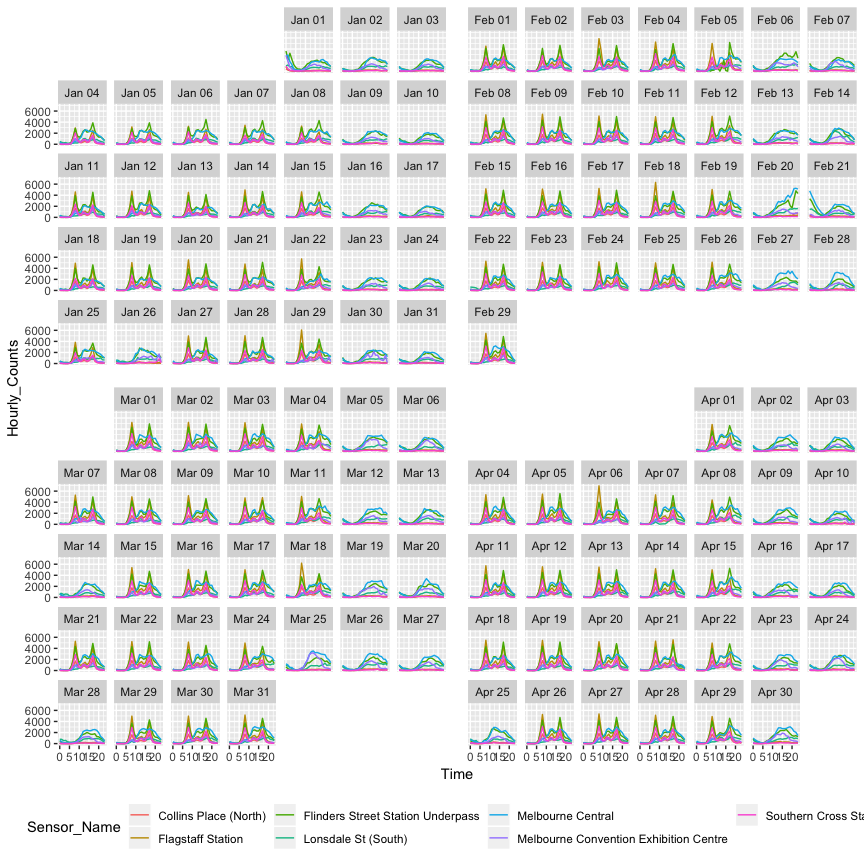
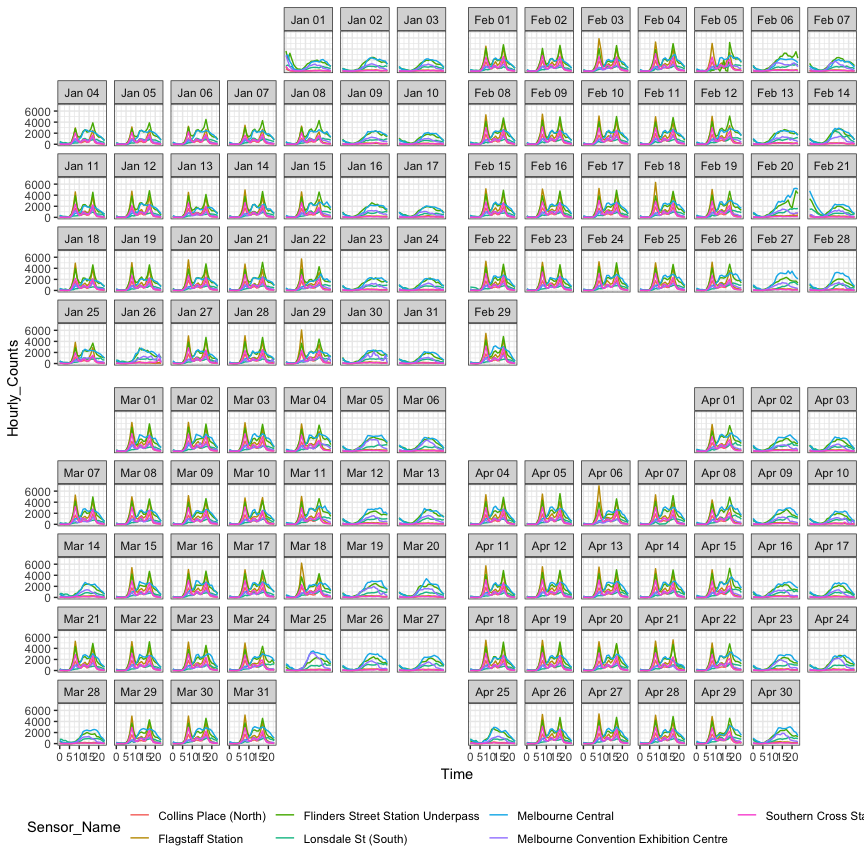
updated README

Changed region(s): [[0.0625, 0.0, 1.0, 0.875]]

diff --git a/README.md b/README.md
@@ -25,8 +25,8 @@ install.packages("sugrrants")
 You could also install the development version from Github using:
 
 ``` r
-# install.packages("devtools")
-devtools::install_github("earowang/sugrrants", build_vignettes = TRUE)
+# install.packages("remotes")
+remotes::install_github("earowang/sugrrants")
 ```
 
 ## Usage
@@ -44,6 +44,7 @@ pedestrian %>%
   ggplot(aes(x = Time, y = Hourly_Counts, colour = Sensor_Name)) +
   geom_line() +
   facet_calendar(~ Date) + # a variable contains dates
+  theme_bw() +
   theme(legend.position = "bottom")
 ```
 
